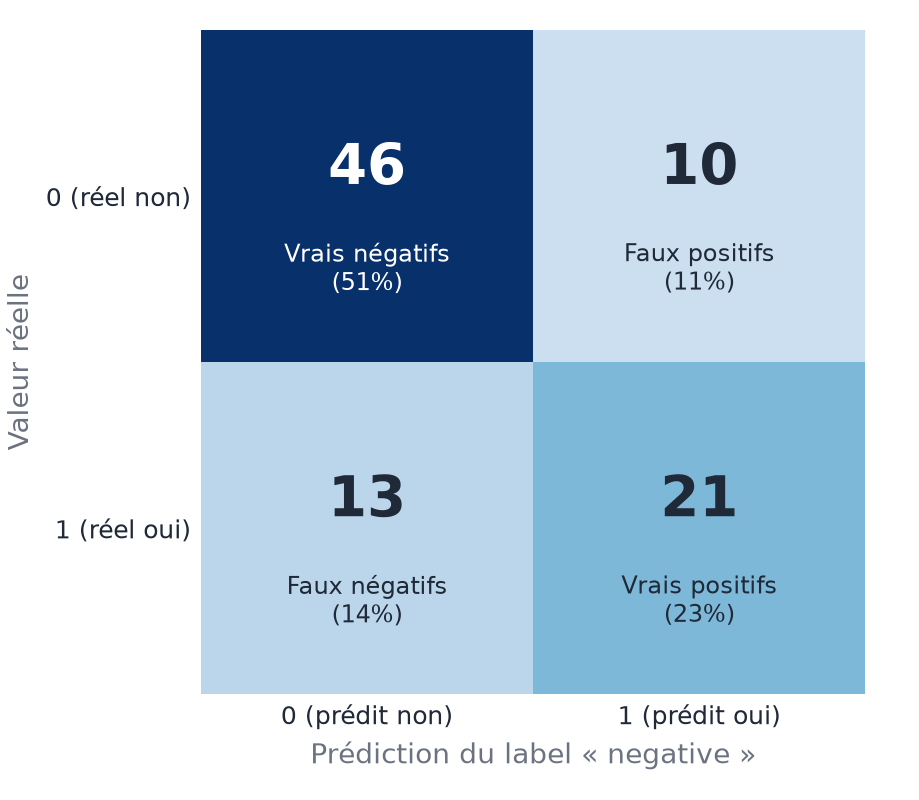
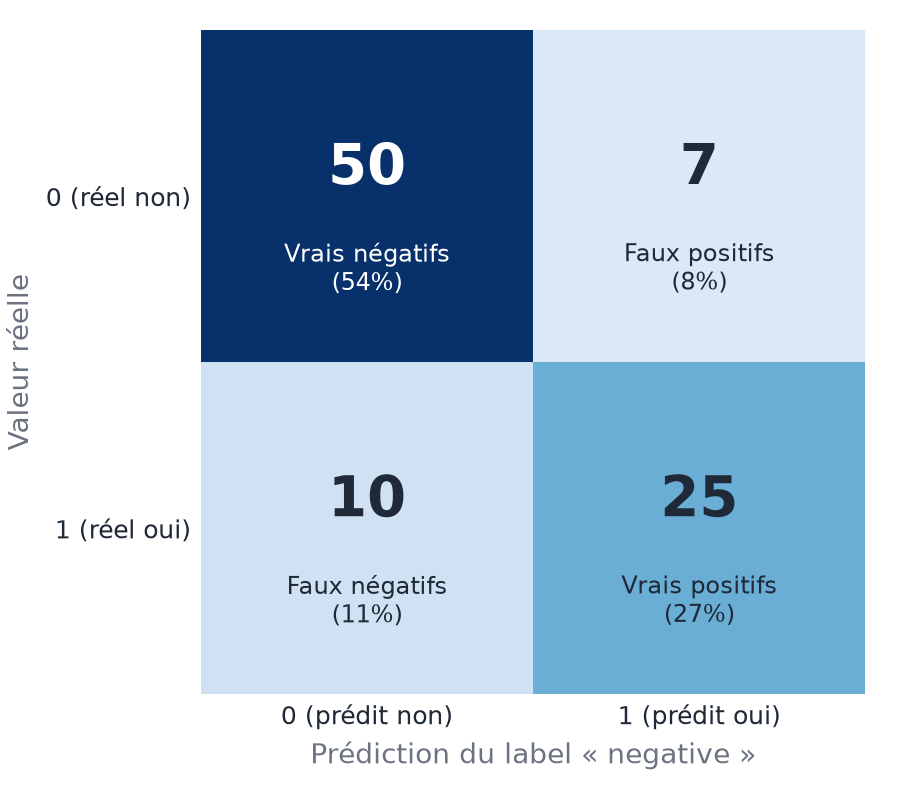
Corrections suite a la relecture du projet
- Rapport : formulation de la fiabilite indexee sur la precision reelle
  (plus de phrase gabarit contredisant le chiffre)
- API : deduplication des tweets en double dans /analyze, documentee
  dans le README
- Dataset : 12 tweets annotes supplementaires (vocabulaire horreur /
  service) corrigeant une prediction incoherente ; accuracy validation
  positive 77.8% -> 82.6%, negative 74.4% -> 81.5%
- Rapport PDF et figures regeneres avec le modele reentraine

diff --git a/report/generate_report.py b/report/generate_report.py
@@ -79,6 +79,15 @@ def interpretation(label: str, m: dict) -> str:
     (vn, fp), (fn, vp) = m["confusion_matrix"]
     cls = m["classes"]["1"]
     total = vn + fp + fn + vp
+    # Formulation de la fiabilité indexée sur la valeur réelle de précision,
+    # pour que le texte ne contredise jamais le chiffre.
+    precision = cls["precision"]
+    if precision >= 0.85:
+        fiabilite = "il se trompe rarement"
+    elif precision > 0:
+        fiabilite = f"environ une prédiction sur {round(1 / (1 - precision))} est erronée"
+    else:
+        fiabilite = "aucune prédiction de ce label n'est correcte"
     return (
         f"Sur les {total} tweets du jeu de validation, le modèle identifie "
         f"correctement {vp} tweets {label}s (vrais positifs) et {vn} tweets "
@@ -86,8 +95,8 @@ def interpretation(label: str, m: dict) -> str:
         f"{m['accuracy']:.1%}. Il commet {fp} faux positifs (tweets classés "
         f"« {label} » à tort) et {fn} faux négatifs (tweets « {label} » "
         f"manqués). La précision de la classe {label} est de "
-        f"{cls['precision']:.1%} : lorsque le modèle prédit ce label, il se "
-        f"trompe rarement. Son rappel de {cls['recall']:.1%} indique la part "
+        f"{cls['precision']:.1%} : lorsque le modèle prédit ce label, "
+        f"{fiabilite}. Son rappel de {cls['recall']:.1%} indique la part "
         f"des tweets réellement {label}s qu'il parvient à retrouver ; le "
         f"F1-score de {cls['f1_score']:.1%} synthétise cet équilibre."
     )

diff --git a/app.py b/app.py
@@ -82,8 +82,11 @@ def analyze():
             "Modèle non entraîné. Lancez d'abord : python -m src.train", 503
         )
 
-    scores = model.predict_scores(payload)
-    return jsonify({tweet: round(score, 3) for tweet, score in zip(payload, scores)})
+    # Les clés d'un objet JSON étant uniques, les tweets en double sont
+    # dédupliqués (un même texte donne de toute façon le même score).
+    tweets = list(dict.fromkeys(payload))
+    scores = model.predict_scores(tweets)
+    return jsonify({tweet: round(score, 3) for tweet, score in zip(tweets, scores)})
 
 
 @app.get("/health")

diff --git a/README.md b/README.md
@@ -148,6 +148,10 @@ par tweet :
 }
 ```
 
+> Les clés d'un objet JSON étant uniques, les tweets envoyés en double
+> n'apparaissent qu'une fois dans la réponse (le score d'un texte identique
+> est identique).
+
 ### Gestion des erreurs
 
 | Cas | Code | Réponse |